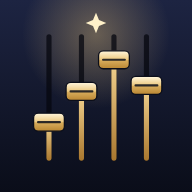
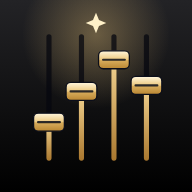
Add files via upload

diff --git a/index.html b/index.html
@@ -3,28 +3,21 @@
 <title>RF App</title>
 <meta name="claude:viewport-fit-sides" content="cover">
 <link rel="preconnect" href="https://fonts.googleapis.com"><link rel="preconnect" href="https://fonts.gstatic.com" crossorigin>
-<link rel="stylesheet" href="https://fonts.googleapis.com/css2?family=Barlow+Condensed:wght@500;600;700&family=Bricolage+Grotesque:opsz,wght@12..96,600;12..96,700;12..96,800&family=Instrument+Sans:wght@400;500;600;700&display=swap">
+<link rel="stylesheet" href="https://fonts.googleapis.com/css2?family=Inter:wght@400;500;600;700&display=swap">
 <script src="config.js"></script><script src="https://cdn.jsdelivr.net/npm/@supabase/supabase-js@2.45.4/dist/umd/supabase.js"></script>
 <style>:root{padding-top:env(safe-area-inset-top,0px);padding-bottom:0}[hidden]{display:none!important}</style></head><body>
 <style>
-/* RF Equipo — atril de bolsillo: tinta de escenario, dorado de la marca RF, acordes condensados como en una partitura */
+/* RF App — cristal pulido al estilo Apple: negro y blanco, dorado y azul de acento */
 :root{
-  --ink:#0E1220;--ink2:#151A2B;--card:#1A2034;--card2:#212842;--line:#2A3250;--line2:#38416A;
-  --fg:#EEF0F7;--muted:#9AA3C0;--dim:#69718F;
-  --gold:#E9C47A;--gold2:#C99A47;--gold-ink:#1C1406;
-  --ok:#5BD08F;--warn:#F2B455;--bad:#F07167;--info:#7AA7FF;
-  --chord:#F4CE7E;
-  --display:"Bricolage Grotesque","Instrument Sans",system-ui,sans-serif;
-  --ui:"Instrument Sans",system-ui,-apple-system,sans-serif;
-  --num:"Barlow Condensed","Instrument Sans",system-ui,sans-serif;
-  --r:16px;--r2:11px;
-  color-scheme:dark;
+  --ink:#000000;--ink2:#0B0B0D;--card:rgba(28,28,31,.66);--card2:rgba(58,58,62,.42);--solid:#1C1C1E;--line:rgba(255,255,255,.08);--line2:rgba(255,255,255,.14);--hl:rgba(255,255,255,.09);--shadow:0 1px 1px rgba(0,0,0,.3),0 10px 30px rgba(0,0,0,.35);--fg:#F5F5F7;--muted:#A1A1A6;--dim:#6E6E73;--gold:#E2C07F;--gold2:#B98C45;--gold-ink:#1A1206;--blue:#0A84FF;--info:#64A8FF;--chord:#E8C77F;--glow1:rgba(226,192,127,.14);--glow2:rgba(10,132,255,.12);color-scheme:dark;
+  --ok:#30D158;--warn:#FFB340;--bad:#FF5A52;
+  --display:-apple-system,BlinkMacSystemFont,"SF Pro Display","Inter",system-ui,sans-serif;
+  --ui:-apple-system,BlinkMacSystemFont,"SF Pro Text","Inter",system-ui,sans-serif;
+  --num:-apple-system,BlinkMacSystemFont,"SF Pro Display","Inter",system-ui,sans-serif;
+  --r:20px;--r2:14px;
 }
-@media (prefers-color-scheme: light){:root:not([data-theme="dark"]){
-  --ink:#F3F1EC;--ink2:#EAE6DD;--card:#FFFFFF;--card2:#F6F3EC;--line:#E2DCCF;--line2:#CFC6B4;
-  --fg:#1A1D2B;--muted:#5D6278;--dim:#8A8EA0;--gold:#A8742A;--gold2:#8C5F1F;--gold-ink:#FFF8EA;--chord:#9A5F12;color-scheme:light}}
-:root[data-theme="light"]{--ink:#F3F1EC;--ink2:#EAE6DD;--card:#FFFFFF;--card2:#F6F3EC;--line:#E2DCCF;--line2:#CFC6B4;
-  --fg:#1A1D2B;--muted:#5D6278;--dim:#8A8EA0;--gold:#A8742A;--gold2:#8C5F1F;--gold-ink:#FFF8EA;--chord:#9A5F12;color-scheme:light}
+@media (prefers-color-scheme: light){:root:not([data-theme="dark"]){--ink:#F2F2F5;--ink2:#FFFFFF;--card:rgba(255,255,255,.72);--card2:rgba(118,118,128,.1);--solid:#FFFFFF;--line:rgba(0,0,0,.06);--line2:rgba(0,0,0,.11);--hl:rgba(255,255,255,.95);--shadow:0 1px 2px rgba(0,0,0,.04),0 10px 30px rgba(20,20,40,.07);--fg:#1D1D1F;--muted:#6E6E73;--dim:#8E8E93;--gold:#A67C35;--gold2:#8A6326;--gold-ink:#FFFBF2;--blue:#007AFF;--info:#007AFF;--chord:#9A6A1E;--glow1:rgba(201,154,71,.12);--glow2:rgba(0,122,255,.08);color-scheme:light;--ok:#1F9D49;--warn:#C27400;--bad:#D93B33}}
+:root[data-theme="light"]{--ink:#F2F2F5;--ink2:#FFFFFF;--card:rgba(255,255,255,.72);--card2:rgba(118,118,128,.1);--solid:#FFFFFF;--line:rgba(0,0,0,.06);--line2:rgba(0,0,0,.11);--hl:rgba(255,255,255,.95);--shadow:0 1px 2px rgba(0,0,0,.04),0 10px 30px rgba(20,20,40,.07);--fg:#1D1D1F;--muted:#6E6E73;--dim:#8E8E93;--gold:#A67C35;--gold2:#8A6326;--gold-ink:#FFFBF2;--blue:#007AFF;--info:#007AFF;--chord:#9A6A1E;--glow1:rgba(201,154,71,.12);--glow2:rgba(0,122,255,.08);color-scheme:light;--ok:#1F9D49;--warn:#C27400;--bad:#D93B33}
 *{box-sizing:border-box}
 html,body{height:100%}
 body{margin:0;background:var(--ink);color:var(--fg);font:15px/1.5 var(--ui);-webkit-font-smoothing:antialiased;-webkit-tap-highlight-color:transparent}
@@ -376,6 +369,97 @@ button.pill{cursor:pointer}
 label.btn{cursor:pointer}
 .logo{width:38px;height:38px;border-radius:11px;flex:none;box-shadow:0 2px 8px rgba(0,0,0,.25)}
 .mhead .logo{width:32px;height:32px;border-radius:9px}
+
+/* ================= capa de cristal ================= */
+body{background:var(--ink);font-feature-settings:"cv11","ss01";letter-spacing:-.005em}
+body::after{content:"";position:fixed;inset:0;z-index:-1;pointer-events:none;background:radial-gradient(60% 45% at 85% -5%,var(--glow1),transparent 70%),radial-gradient(55% 40% at 0% 30%,var(--glow2),transparent 70%)}
+h1,h2,h3{font-weight:700;letter-spacing:-.025em}
+.top h1{font-size:clamp(28px,6vw,34px);font-weight:700}
+.eyebrow{letter-spacing:.06em;font-weight:600;font-size:12px}
+.num{font-feature-settings:"tnum";letter-spacing:-.01em}
+.card,.task,.role,.stat,.livebar,.search,.seg,.tr,.pgx,.strip,.tchip,.singer,.lk,.mxpick label,.empty,.demo,.ib,.btn,.pill,.cal,.keyb,.in,select.in,textarea.in{
+  -webkit-backdrop-filter:blur(24px) saturate(1.8);backdrop-filter:blur(24px) saturate(1.8)}
+.card,.task,.role,.stat,.livebar,.pgx,.tchip,.mxpick label{background:var(--card);border:1px solid var(--line);box-shadow:inset 0 1px 0 var(--hl),var(--shadow)}
+.card{border-radius:22px}
+.task{border-radius:18px;background:var(--card2);box-shadow:inset 0 1px 0 var(--hl)}
+.empty{border:1px dashed var(--line2);background:var(--card2);border-radius:20px}
+.demo{border:1px solid var(--line);background:var(--card2);border-radius:16px}
+/* botones: píldoras de cristal */
+.btn{border-radius:999px;background:var(--card);border:1px solid var(--line2);box-shadow:inset 0 1px 0 var(--hl),0 1px 2px rgba(0,0,0,.08);font-weight:600;padding:9px 16px}
+.btn:hover{border-color:var(--line2);filter:brightness(1.06)}
+.btn.small{padding:6px 12px;border-radius:999px}
+.btn.primary{background:linear-gradient(180deg,color-mix(in srgb,var(--gold) 92%,#fff),var(--gold2));color:var(--gold-ink);border:1px solid color-mix(in srgb,var(--gold2) 70%,#000);box-shadow:inset 0 1px 0 rgba(255,255,255,.45),0 4px 14px color-mix(in srgb,var(--gold) 30%,transparent)}
+.btn.ghost{background:transparent;box-shadow:none;border-color:var(--line2)}
+.ib{border-radius:50%;background:var(--card);border:1px solid var(--line2);box-shadow:inset 0 1px 0 var(--hl)}
+.pill{border-radius:999px;background:var(--card2);border-color:var(--line)}
+.pill.gold{color:var(--gold)}
+a{color:var(--blue)}
+.lk{border-radius:999px;background:var(--card2);border:1px solid var(--line)}
+/* controles estilo iOS */
+.seg{background:var(--card2);border:0;border-radius:11px;padding:2px}
+.seg button{border-radius:9px;font-weight:600}
+.seg button.on{background:var(--solid);color:var(--fg);box-shadow:0 3px 8px rgba(0,0,0,.12),0 0 0 .5px rgba(0,0,0,.04)}
+.in,select.in,textarea.in{background:var(--card2);border:1px solid var(--line);border-radius:14px}
+.in:focus{outline:none;border-color:var(--blue);box-shadow:0 0 0 4px color-mix(in srgb,var(--blue) 22%,transparent)}
+.search{background:var(--card2);border:1px solid var(--line);border-radius:14px}
+.field label,.fact small,.stat small{letter-spacing:.04em;font-weight:600}
+.row{border-bottom:1px solid var(--line)}
+.keyb{background:var(--card2);border:1px solid var(--line);border-radius:12px;color:var(--gold);font-weight:700}
+.cal{background:var(--card2);border:1px solid var(--line2);border-radius:18px;box-shadow:inset 0 1px 0 var(--hl)}
+.cal small{color:var(--bad);font-weight:700;letter-spacing:.06em}
+.cal b{font-weight:600;letter-spacing:-.04em}
+.chart .sg i{font-weight:700}
+/* paneles negros como en las referencias: siempre oscuros, con cristal adentro */
+.hero,.phero,.stage{--fg:#F5F5F7;--muted:#A1A1A6;--dim:#6E6E73;--card:rgba(255,255,255,.07);--card2:rgba(255,255,255,.06);--line:rgba(255,255,255,.09);--line2:rgba(255,255,255,.16);--hl:rgba(255,255,255,.12);--solid:#3A3A3C;--gold:#E2C07F;--gold2:#B98C45;--gold-ink:#1A1206;--bad:#FF5A52;--ok:#30D158;--warn:#FFB340;
+  color:var(--fg);background:radial-gradient(90% 70% at 100% 0%,rgba(226,192,127,.22),transparent 60%),radial-gradient(70% 60% at 0% 100%,rgba(10,132,255,.14),transparent 60%),linear-gradient(180deg,#1C1C1E,#050506);
+  border:1px solid rgba(255,255,255,.08);border-radius:30px;box-shadow:inset 0 1px 0 rgba(255,255,255,.12),0 20px 50px rgba(0,0,0,.28)}
+.hero .task{background:rgba(255,255,255,.06)}
+.hero h2{font-size:28px;font-weight:700;letter-spacing:-.03em}
+.phero h1{font-weight:700;letter-spacing:-.035em}
+/* estadísticas: números grandes, finos */
+.stat{border-radius:22px}
+.stat b{font-weight:600;font-size:44px;letter-spacing:-.045em}
+.stat:first-child b{color:var(--fg)}
+.stat:first-child{background:linear-gradient(160deg,color-mix(in srgb,var(--gold) 16%,var(--card)),var(--card))}
+.count b{font-weight:600}
+/* barra de abajo: píldora de cristal oscuro que flota */
+.tabbar{left:12px;right:12px;bottom:calc(10px + env(safe-area-inset-bottom,0px));padding:6px;border-radius:30px;border:1px solid rgba(255,255,255,.1);
+  background:rgba(22,22,24,.78);-webkit-backdrop-filter:blur(28px) saturate(1.8);backdrop-filter:blur(28px) saturate(1.8);box-shadow:inset 0 1px 0 rgba(255,255,255,.1),0 12px 34px rgba(0,0,0,.35);gap:2px}
+.tabbar button{color:#8E8E93;border-radius:24px;padding:7px 0 6px;font-weight:600;font-size:10px;gap:2px;transition:background .2s,color .2s}
+.tabbar button.on{color:#fff;background:rgba(255,255,255,.13);box-shadow:inset 0 1px 0 rgba(255,255,255,.12)}
+.tabbar button.on svg{color:var(--gold)}
+.tabbar .dot{box-shadow:0 0 0 2px #161618}
+.main{padding-bottom:calc(110px + env(safe-area-inset-bottom,0px))}
+/* menú lateral en computadora */
+.rail{background:var(--card);-webkit-backdrop-filter:blur(30px) saturate(1.8);backdrop-filter:blur(30px) saturate(1.8);border-right:1px solid var(--line)}
+.navb{border-radius:12px;font-weight:600}
+.navb.on{background:var(--card2);box-shadow:inset 0 1px 0 var(--hl)}
+.brand b{font-family:var(--display);font-weight:700;letter-spacing:-.02em}
+.brand small{letter-spacing:.04em;text-transform:none;font-size:11.5px}
+/* cabecera del teléfono */
+.mhead{background:linear-gradient(var(--ink) 55%,transparent)}
+.mhead>b{font-weight:700;letter-spacing:-.02em}
+.modal{background:rgba(0,0,0,.35);-webkit-backdrop-filter:blur(8px);backdrop-filter:blur(8px)}
+.panel{background:var(--card);-webkit-backdrop-filter:blur(40px) saturate(1.8);backdrop-filter:blur(40px) saturate(1.8);border:1px solid var(--line2);box-shadow:inset 0 1px 0 var(--hl),0 -10px 40px rgba(0,0,0,.25);border-radius:28px 28px 0 0}
+@media (min-width:720px){.panel{border-radius:28px}}
+.panel{background:color-mix(in srgb,var(--solid) 86%,transparent)}
+.toast{border-radius:999px;background:rgba(30,30,32,.9);color:#fff;-webkit-backdrop-filter:blur(20px);backdrop-filter:blur(20px)}
+/* consola: escritorio de cristal negro */
+:root{--desk1:#161618;--desk2:#050506}
+:root[data-theme="light"]{--desk1:#1C1C1E;--desk2:#08080A;--slot:#000;--capa:#FFFFFF;--capb:#C9C3B6}
+@media (prefers-color-scheme: light){:root:not([data-theme="dark"]){--desk1:#1C1C1E;--desk2:#08080A;--slot:#000}}
+.console{border-radius:28px;--fg:#F5F5F7;--muted:#A1A1A6;--dim:#7C7C82;--card:rgba(255,255,255,.06);--card2:rgba(255,255,255,.09);--line:rgba(255,255,255,.08);--line2:rgba(255,255,255,.18);--hl:rgba(255,255,255,.1);color:#F5F5F7}
+.strip{border-radius:18px;background:rgba(255,255,255,.05);box-shadow:inset 0 1px 0 rgba(255,255,255,.08)}
+.mxmute{border-radius:999px}
+.sdb{border-radius:999px}
+.prog .pgi{border-radius:12px;background:var(--card);box-shadow:inset 0 1px 0 var(--hl)}
+.pg.t-canciones .pgi{background:linear-gradient(180deg,color-mix(in srgb,var(--gold) 92%,#fff),var(--gold2));color:var(--gold-ink)}
+.pg.t-video .pgi{color:var(--blue)}
+.pg.blank .pgh b{color:var(--blue)}
+.pgx{border-radius:16px}
+.att i{border-radius:7px}
+.b2 i::after{background:linear-gradient(90deg,var(--gold2),var(--gold))}
+.logo{border-radius:10px}
 
 </style>
 <div id="root"></div>
@@ -786,7 +870,7 @@ const I = {
   camera: '<path d="M4 8h3l2-3h6l2 3h3v11H4z"/><circle cx="12" cy="13" r="3.5"/>',
   trash: '<path d="M4 7h16M10 11v6M14 11v6M6 7l1 13h10l1-13M9 7V4h6v3"/>', note: '<path d="M5 4h14v16H5z"/><path d="M9 9h6M9 13h6M9 17h3"/>', send: '<path d="M21 3 10 14M21 3l-7 18-4-7-7-4z"/>',
 };
[2 lines of base64/hex data omitted]
 const logo = cls => `<img class="logo${cls ? ' ' + cls : ''}" src="${LOGO}" alt="RF App">`;
 const avt = (m, cls, st) => { m = m || {}; return `<span class="av${cls ? ' ' + cls : ''}" style="--c:${m.color || 'var(--gold)'}${st || ''}">${m.photo ? `<img src="${esc(m.photo)}" alt="">` : initials(m.name)}</span>`; };
 const effTheme = () => document.documentElement.dataset.theme || (matchMedia('(prefers-color-scheme: light)').matches ? 'light' : 'dark');
